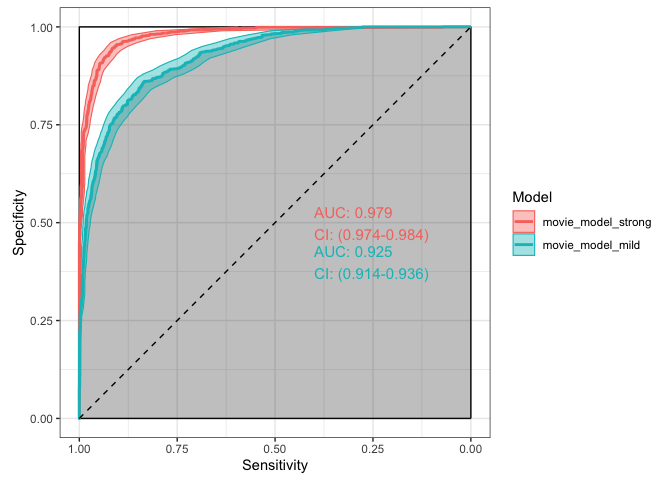
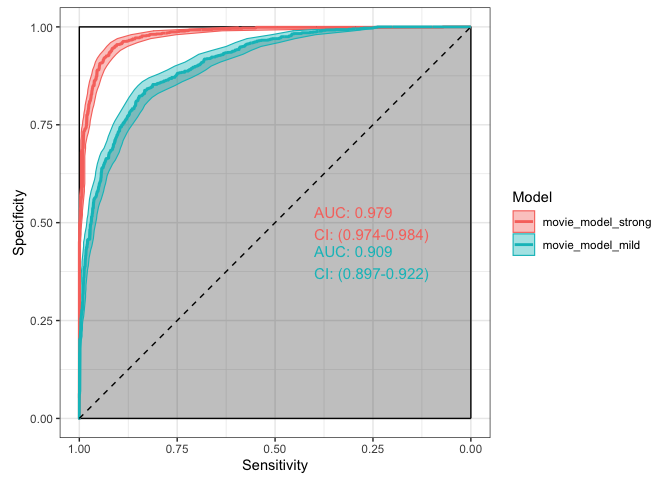
Updated README

diff --git a/README.md b/README.md
@@ -14,18 +14,6 @@ To install:
 devtools::install_github("nlanderson9/languagePredictR")
 ```
 
-    ## Downloading GitHub repo nlanderson9/languagePredictR@HEAD
-
-    ## Installing 39 packages: crayon, cli, cpp11, tibble, dplyr, mime, tinytex, xfun, withr, knitr, hms, Rcpp, BH, broom, forcats, DBI, RcppArmadillo, diffobj, waldo, brio, testthat, plotrix, expm, rappdirs, cachem, fastmap, promises, httpuv, sp, pixmap, segmented, reprex, dbplyr, koRpus, stopwords, ggrepel, shiny, pROC, glmnet
-
-    ## Installing packages into '/private/var/folders/4p/n014f5rx3rb83vsf2c0f8h000000gn/T/Rtmp6EvRpG/temp_libpath11a541226060e'
-    ## (as 'lib' is unspecified)
-
-    ## installing the source packages 'mime', 'testthat', 'cachem'
-
-    ## Installing package into '/private/var/folders/4p/n014f5rx3rb83vsf2c0f8h000000gn/T/Rtmp6EvRpG/temp_libpath11a541226060e'
-    ## (as 'lib' is unspecified)
-
 ``` r
 library(languagePredictR)
 ```
@@ -35,15 +23,16 @@ ratings (“Positive” vs. “Negative”, or a 1-10 star scale) from the text
 accompanying the rating.
 
 This package is designed to process data in three major phases:  
-1. Cleaning/preparing text for analysis 2. Creating a predictive model
+1. Cleaning/preparing text for analysis  
+2. Creating a predictive model  
 3. Assessing the model and comparing it to other models
 
 We’ll start with a dataset of movie reviews from IMDB. The
 `strong_movie_review_data` dataset has 3 columns:  
-text: Text reviews of movies (e.g. “I don’t know why I like this movie
+*text: Text reviews of movies (e.g. “I don’t know why I like this movie
 so well, but I never get tired of watching it.”)  
-rating: A rating on a scale of 1-10 that accompanies the text  
-valence: A label assigned based on the rating (“Positive” for ratings
+*rating: A rating on a scale of 1-10 that accompanies the text  
+\*valence: A label assigned based on the rating (“Positive” for ratings
 6-10, “Negative” for ratings 1-5)
 
 The `strong_movie_review_data` dataset contains 2000 reviews - 1000
@@ -79,16 +68,16 @@ strong_movie_review_data$cleanText[1]
     ## [1] "arnold once again in the demonstrated that he was the king of action and one liners in this futuristic film about a violent game show that no contestant survives but as the tag line says arnold has yet to play the movie begins in the year in which the world economy has collapsed with food and other important materials in short supply and a totalitarian state has arisen controlling every aspect of life through tv and a police state it is most popular game show is the running man in which criminals are forced to survive against stalkers that live to kill them the movie opens with ben richards arnold leading a helicopter mission to observe a food riot in progress he is ordered by his superiors to fire on them refusing to gets him knocked out and thrown in prison in the meantime they slaughtered the people without his help the government blames richards for the massacre earning him the name butcher of bakersfield eighteen months later richards along with two friends william laughlin koto and harold weiss mcintyre breakout of a detention zone they worked in they make their way to the underground led by mic mick fleetwood mic quickly identifies richards as the butcher of bakersfield and refuses to help him but his friend convince him otherwise they want him to join the resistance but he would rather go live with his brother and get a job soon he finds that his brother has been taken away for reeducation and a woman name amber mendez alonso has taken his apartment knowing who he is she will not help him but he convinces her but is busted at the airport by the cops after she ratted him out meantime the running man is having trouble finding good new blood for the there stalkers to kill damon killian dawson the shows host and one of the most powerful men in the country sees richards escape footage and is able to get him for the show after his capture richards refuses to play killian threatens to use his friends instead of him so he signs the contract you will love that part but soon he finds they will join him as well and makes sure killian knows he will be back the runners begin to make there way through the zones and fight characters that are memorable sub zero buzz saw and many others eventually richards is joined by amber who suspected he was set up but was caught and thrown into the game too together they find the underground and make there way back to killian and give him a farewell send off the running man is another one of arnold great movies from the the movie was apparently somewhat based on stephen king book of the same name some have said that the book is better i am sure it is not and i do not care anyway i loved the movie as in all of arnold films the acting is what you would expect with classic one liners from arnold and even ventura gets a couple in but without a doubt richard dawson is the standout in this film being a real game show host he easily spoofed himself and was able to create a character that was truly cold blooded the whole movie itself somewhat rips on game shows and big brother watching you keep an eye out for them poking fun and some old shows hate boat among others also the cast was great besides arnold koto and alonzo do not forget professor toru tanaka jim brown ventura and sven ole with all the reality tv nonsense that goes on it almost fits in better now but i am sure the hollywood liberals would make it into a movie about the evil bush the new dvd had mostly poor extras meet the stalkers being the only redeemable one some how the aclu managed to get some of there communism into the dvd and is laughable garbage that should not be anywhere near an arnold movie of all things blasphemy overall for any arnold fan especially we who grew up in the on him you can not miss this its one of the first ones i saw back in the and it is still great to this day the futuristic world and humor are great overall out stars definitely one of his best"
 
 There are other tools in this package to clean up text. These include:  
-`check_spelling` - Corrects mis-spelled words  
-`idiosync_response_words` - Removes words that occur repeatedly in a
+*`check_spelling` - Corrects mis-spelled words  
+*`idiosync_response_words` - Removes words that occur repeatedly in a
 single text response, but nowhere else - these might influence the model
 in undesirable ways  
-`idiosync_participant_words` - Similar to `idiosync_response_words`, but
-if you have responses grouped by participant, it will remove words used
-repeatedly by an individual participant and never by another
+*`idiosync_participant_words` - Similar to `idiosync_response_words`,
+but if you have responses grouped by participant, it will remove words
+used repeatedly by an individual participant and never by another
 participant.  
-`lemmatize` - Reduces words to their base units (e.g. “running” or “ran”
-becomes “run,” “dogs” becomes “dog” and “geese” becomes “goose”)
+*`lemmatize` - Reduces words to their base units (e.g. “running” or
+“ran” becomes “run,” “dogs” becomes “dog” and “geese” becomes “goose”)
 
 ### 2. Predict
 
@@ -153,7 +142,7 @@ test_output
 ```
 
     ##               model1           model2 model1_auc model2_auc      p_value sig
-    ## 1 movie_model_strong movie_model_mild   0.979426   0.924596 1.619106e-19 ***
+    ## 1 movie_model_strong movie_model_mild   0.979426   0.909267 1.375084e-25 ***
 
 It is !
 
